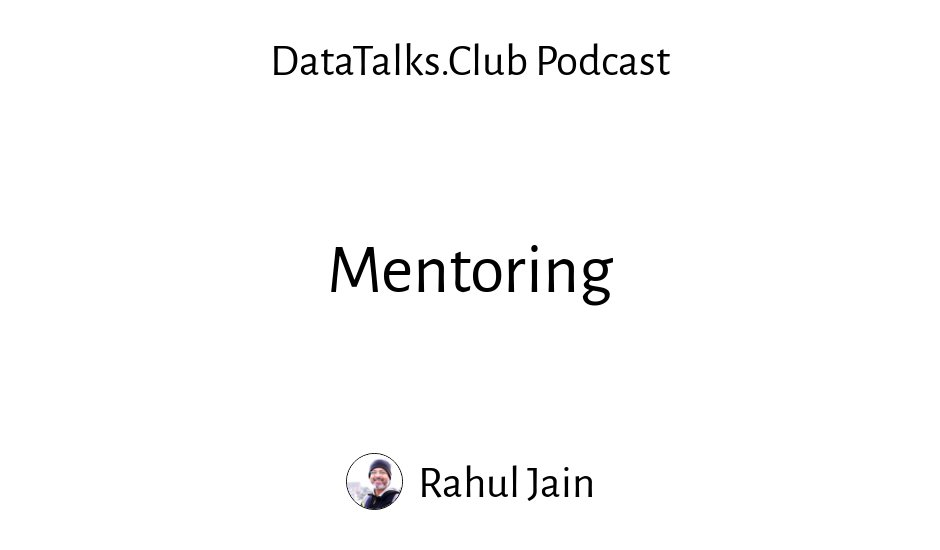
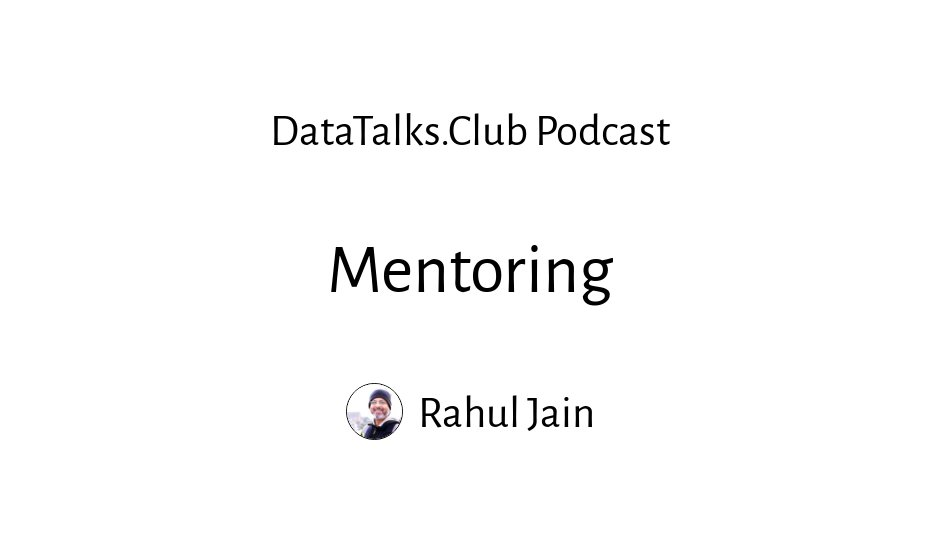
podcast images

diff --git a/previews/styles.css b/previews/styles.css
@@ -48,6 +48,17 @@ h4 {
   height: 480px; /* 550 - 35*2*/
 }
 
+
+#inner-podcast {
+  padding: 35px;
+  display: flex;
+  flex-direction: column;
+  justify-content: space-evenly;
+  height: 480px; /* 550 - 35*2*/
+}
+
+
+
 .author-block {
   display: flex;
   justify-content: center;

diff --git a/previews/template_podcast.html b/previews/template_podcast.html
@@ -16,7 +16,7 @@
 
 <body>
   <div id="main">
-    <div id="inner">
+    <div id="inner-podcast">
       <div class="head-block">
         <h3 id="site">DataTalks.Club Podcast</h3>
       </div>
